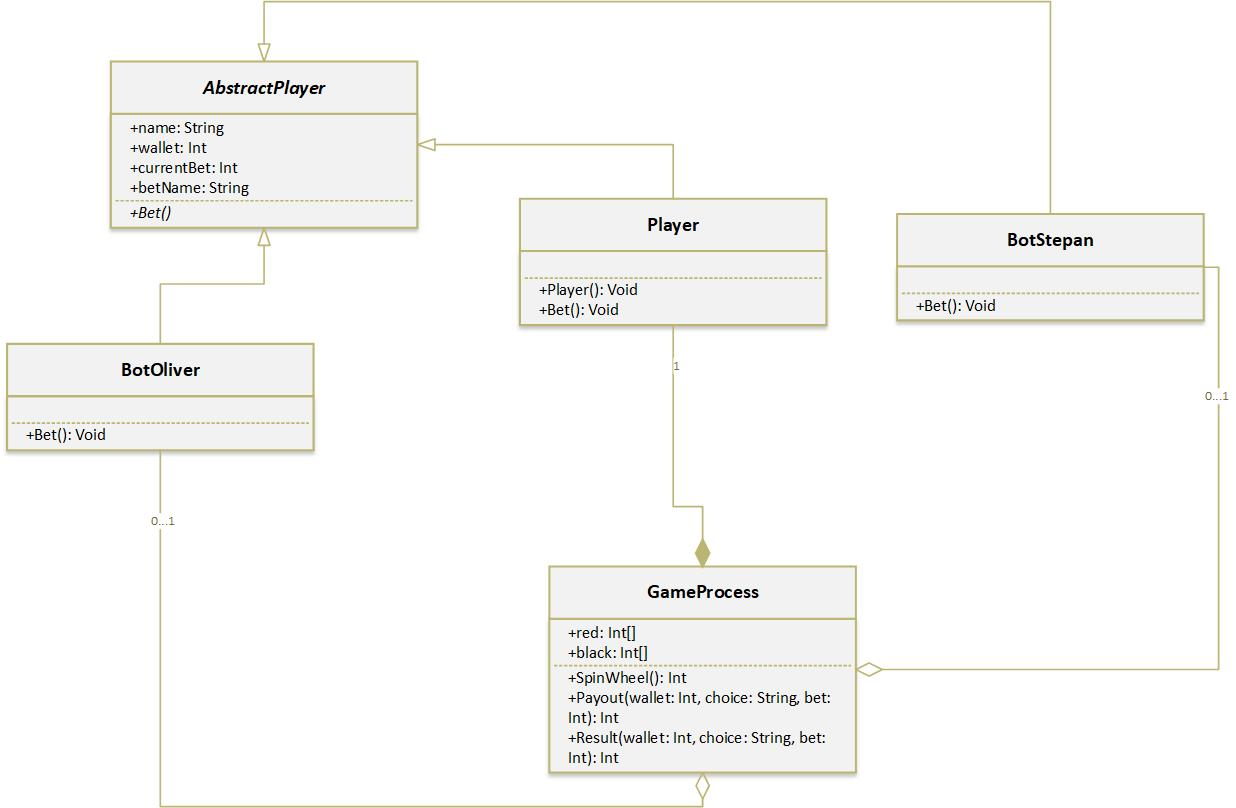
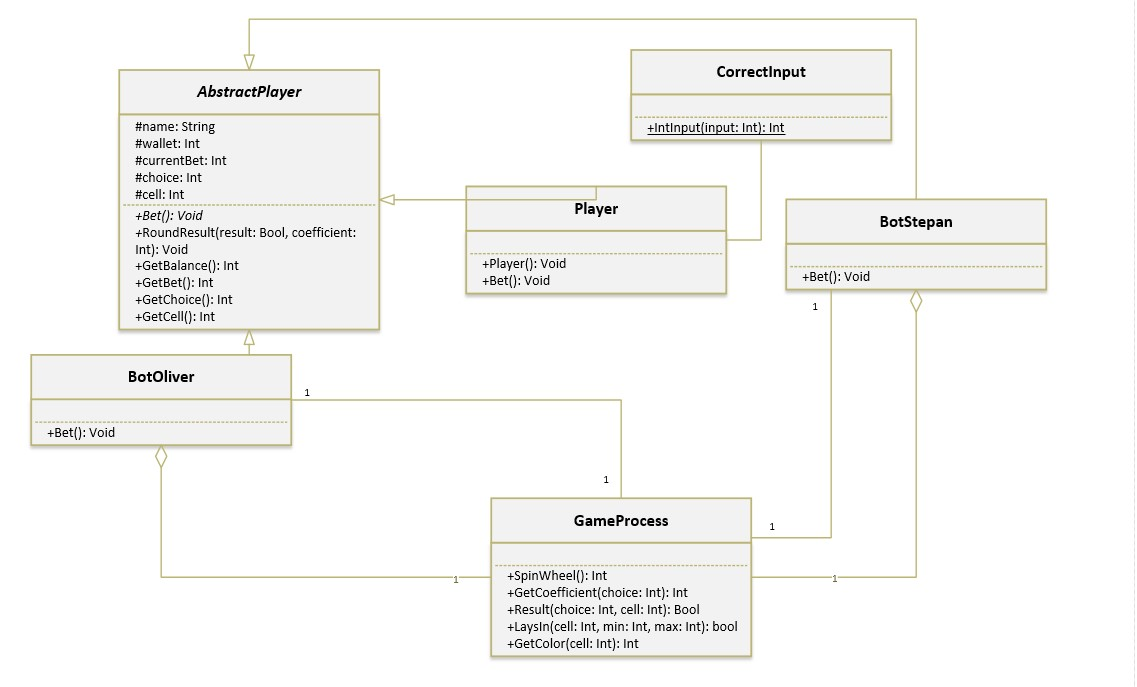
fixes in the program structure and uml

diff --git a/term 2/Task2Roulette/Action/GameProcess.cs b/term 2/Task2Roulette/Action/GameProcess.cs
@@ -6,94 +6,80 @@ namespace Action
     {
         
         
-        public int[] red = { 1, 3, 5, 7, 9, 12, 14, 16, 18, 19, 21, 23, 25, 27, 30, 32, 34, 36 };
-        public int[] black = { 2, 4, 6, 8, 10, 11, 13, 15, 17, 20, 22, 24, 26, 28, 29, 31, 33, 35 };
+        public int GetColor(int cell)
+        {
+            if ((((cell > 0 && cell < 10)) || ((cell > 18 && cell < 29) && (cell % 2 == 1)))
+                || (((cell > 10 && cell < 19) || (cell > 29)) && (cell % 2 == 0)))
+                return 1; // Red
+            else
+                return 2; // Black
+        }
+        
+        public bool LaysIn(int cell, int min, int max)
+        {
+            if (cell >= min && cell <= max)
+                return true;
+            else
+                return false;
+        }
 
+        public bool Result(int choice, int cell)
+        {
+            int winningCell = SpinWheel();
+            if (choice == 8)
+            {
+                if (cell == winningCell)
+                    return true;
+                else
+                    return false;
+            }
+            else
+            {
+                if (choice < 3)
+                {
+                    if (GetColor(winningCell) == choice)
+                        return true;
+                    else
+                        return false;
+                }
+                else if (choice < 5)
+                {
+                    if ((choice % 2 == winningCell % 2))
+                        return true;
+                    else
+                        return false;
+                }
+                else if (choice == 5)
+                {
+                    return LaysIn(winningCell, 1, 12);
+                }
+                else if (choice == 6)
+                {
+                    return LaysIn(winningCell, 13, 24);
+                }
+                else
+                {
+                    return LaysIn(winningCell, 25, 36);
+                }
+
+            }
+        }
         public int SpinWheel()
         {
             Random rnd = new Random();
             return rnd.Next(37);
         }
         
-        public int Payout(int wallet, string choice, int bet)
+        public int GetCoefficient(int choice)
         {
-            
-
-            int cell = SpinWheel();
-            
-            switch (choice)
-            {
-                case ("Red"):
-                    if (Array.IndexOf(red, cell) != -1)
-                    {
-                        wallet += bet;
-                    }
-                    else
-                    {
-                        wallet -= bet;
-                    }
-                    break;
-
-                case ("Black"):
-                    if (Array.IndexOf(black, cell) != -1)
-                    {
-                        wallet += bet;
-                    }
-                    else
-                    {
-                        wallet -= bet;
-                    }
-                    break;
-
-                case ("Even"):
-                    if (cell % 2 == 0) wallet += bet;
-                    else wallet -= bet;
-                    break;
-
-                case ("Odd"):
-                    if (cell % 2 == 1) wallet += bet;
-                    else wallet -= bet;
-                    break;
-
-                case ("First Dozen"):
-                    if (cell < 13 && cell > 0) wallet += 2 * bet;
-                    else wallet -= bet;
-                    break;
-
-                case ("Second Dozen"):
-                    if (cell < 25 && cell > 12) wallet += 2 * bet;
-                    else wallet -= bet;
-                    break;
-
-                case ("Third Dozen"):
-                    if (cell < 37 && cell > 24) wallet += 2 * bet;
-                    else wallet -= bet;
-                    break;
-
-                default:
-                    int result;
-                    if (int.TryParse(choice, out result))
-                    {
-                        if (result == cell) wallet += 35 * bet;
-                        else wallet -= bet;
-                        break;
-                    }
-                    else break;
-            }
-            
-            return wallet;
+            int coefficient = 1;
+            if (choice < 5)
+                coefficient = 1;
+            else if (choice < 8)
+                coefficient = 2;
+            else
+                coefficient = 35;
+            return coefficient;
         }
-
-        public int Result(int wallet, string choice, int bet)
-        {
-            Console.WriteLine("Bets made, no more bets.");
-            int previousWallet = wallet;
-            int correntWallet = Payout(wallet, choice, bet);
-            if (correntWallet > previousWallet)
-                Console.WriteLine($"Congratilations! You won {correntWallet - previousWallet}$! Your balance: {correntWallet}$");
-            else Console.WriteLine($"Better luck next time! Your balance: {correntWallet}$");
-            return correntWallet;
-        }
-        
     }
 }

diff --git a/term 2/Task2Roulette/AbstractPlayer/Player.cs b/term 2/Task2Roulette/AbstractPlayer/Player.cs
@@ -12,22 +12,35 @@ namespace AbstractPlayer
             Console.WriteLine("Enter your nickname: ");
             name = Console.ReadLine();
             Console.WriteLine("Enter your balance: ");
-            wallet = int.Parse(Console.ReadLine());
-            
+            wallet = CorrectInput.CorrectInput.IntInput(wallet);
+
         }
         public override void Bet()
         {
+            choice = 0;
+            while (!(choice > 0 && choice < 9))
+            {
+                Console.WriteLine("\nMenu:\n1.Red\n2.Black\n3.Odd\n4.Even\n5.1-12\n6.13-24\n7.25-36\n8.Straight up\n" +
+                    "\nChoose bet number");
+
+                choice = CorrectInput.CorrectInput.IntInput(choice);
+                if (!(choice > 0 && choice < 9))
+                    Console.WriteLine("Incorrect input!");
+            }
             
-            Console.WriteLine("Choose bet name or enter cell number:\n" +
-                "Red\nBlack\nEven\nOdd\nFirst Dozen\nSecond Dozen\nThird Dozen");
-            betName = Console.ReadLine();
-            
+            if (choice == 8)
+            {
+                Console.WriteLine("Enter cell number");
+                cell = CorrectInput.CorrectInput.IntInput(cell);
+            }
             Console.WriteLine("Enter your current bet: ");
-            currentBet = int.Parse(Console.ReadLine());
+
+            currentBet = CorrectInput.CorrectInput.IntInput(currentBet);
+
             while (currentBet > wallet)
             {
                 Console.WriteLine("You don't have enough money. Enter your current bet: ");
-                currentBet = int.Parse(Console.ReadLine());
+                currentBet = CorrectInput.CorrectInput.IntInput(currentBet);
             }
         }
 

diff --git a/term 2/Task2Roulette/AbstractPlayer/BotStepan.cs b/term 2/Task2Roulette/AbstractPlayer/BotStepan.cs
@@ -10,22 +10,23 @@ namespace AbstractPlayer
         GameProcess gameProcess = new GameProcess();
         public override void Bet()
         {
-            int bet = 512;
+            currentBet = 512;
             wallet = 4000;
             int correntWallet = wallet;
             for (int i = 0; i < 400; i++)
             {
                 if (wallet > 0)
                 {
-                    if (bet > wallet)
+                    if (currentBet > wallet)
                     {
-                        while (bet > wallet)
-                            bet /= 2;
+                        while (currentBet > wallet)
+                            currentBet /= 2;
                         
                     }
-                    wallet = gameProcess.Payout(wallet, "Odd", bet);
-                    if (correntWallet > wallet) bet *= 2;
-                    else bet = 16;
+                    bool result = gameProcess.Result(1, 0);
+                    RoundResult(result, gameProcess.GetCoefficient(1));
+                    if (correntWallet > wallet) currentBet *= 2;
+                    else currentBet = 16;
                     correntWallet = wallet;
                 }
             }

diff --git a/term 2/Task2Roulette/AbstractPlayer/AbstractPlayer.cs b/term 2/Task2Roulette/AbstractPlayer/AbstractPlayer.cs
@@ -7,10 +7,37 @@ namespace AbstractPlayer
     public abstract class AbstractPlayer
     {
        
-        public string name;
-        public int wallet;
-        public int currentBet;
-        public string betName;
+        protected string name;
+        protected int wallet;
+        protected int currentBet;
+        protected int choice;
+        protected int cell;
+
+        public int GetBalance()
+        {
+            return wallet;
+        }
+
+        public int GetBet()
+        {
+            return currentBet;
+        }
+        public int GetChoice()
+        {
+            return choice;
+        }
+
+        public int GetCell()
+        {
+            return cell;
+        }
+        public virtual void RoundResult(bool result, int coefficient)
+        {
+            if (result)
+                wallet += coefficient * currentBet;
+            else
+                wallet -= currentBet;
+        }
         public abstract void Bet();
 
     }

diff --git a/term 2/Task2Roulette/Task2Roulette/Program.cs b/term 2/Task2Roulette/Task2Roulette/Program.cs
@@ -13,14 +13,17 @@ namespace Task2Roulette
             Player player = new Player();
             GameProcess gameProcess = new GameProcess();
 
-            while (player.wallet > 0)
+            while (player.GetBalance() > 0)
             {
                 Console.WriteLine("Press esc if you want stop. Press any key if you want play.");
                 cki = Console.ReadKey(true);
                 if (cki.Key != ConsoleKey.Escape)
                 {
+                    
                     player.Bet();
-                    player.wallet = gameProcess.Result(player.wallet, player.betName, player.currentBet);
+                    bool result = gameProcess.Result(player.GetChoice(), player.GetCell());
+                    player.RoundResult(result, gameProcess.GetCoefficient(player.GetChoice()));
+                    Console.WriteLine(player.GetBalance());
                 }
                 else break;
             }

diff --git a/term 2/Task2Roulette/Task2Roulette.Tests/UnitTest.cs b/term 2/Task2Roulette/Task2Roulette.Tests/UnitTest.cs
@@ -19,8 +19,8 @@ namespace Task2Roulette.Tests
                 BotStepan botStepan = new BotStepan();
                 botOliver.Bet();
                 botStepan.Bet();
-                averageOliverMoney += botOliver.wallet;
-                averageStepanMoney += botStepan.wallet;
+                averageOliverMoney += botOliver.GetBalance();
+                averageStepanMoney += botStepan.GetBalance();
             }
             Console.WriteLine(averageOliverMoney / 50);
             Console.WriteLine(averageStepanMoney / 50);

diff --git a/term 2/Task2Roulette/AbstractPlayer/BotOliver.cs b/term 2/Task2Roulette/AbstractPlayer/BotOliver.cs
@@ -13,12 +13,12 @@ namespace AbstractPlayer
         public override void Bet()
         {
             wallet = 4000;
-            int fixedBet = wallet / 400;
+            currentBet = wallet / 400;
             for (int i = 0; i < 400; i++)
             {
                 if (wallet > 0)
                 {
-                    wallet = gameProcess.Payout(wallet, "0", fixedBet);
+                    RoundResult(gameProcess.Result(8, 0), gameProcess.GetCoefficient(8));
                 }
             }
         }

diff --git a/term 2/Task2Roulette/CorrectInput/CorrectInput.cs b/term 2/Task2Roulette/CorrectInput/CorrectInput.cs
@@ -1,0 +1,14 @@
+using System;
+
+namespace CorrectInput
+{
+    public class CorrectInput
+    {
+        public static int IntInput(int input)
+        {
+            while (!(int.TryParse(Console.ReadLine(), out input)))
+                Console.WriteLine("Incorrect input! Try again.");
+            return input;
+        }
+    }
+}
